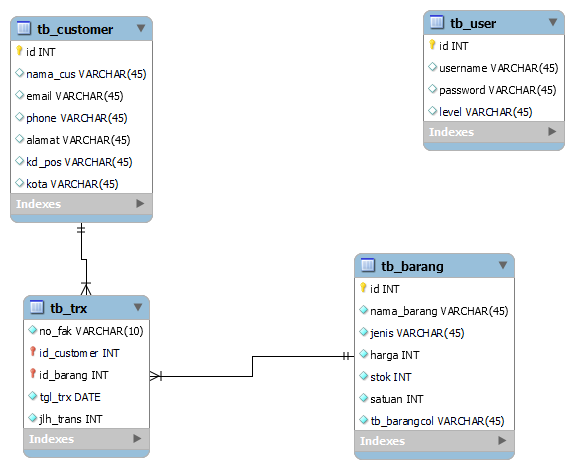
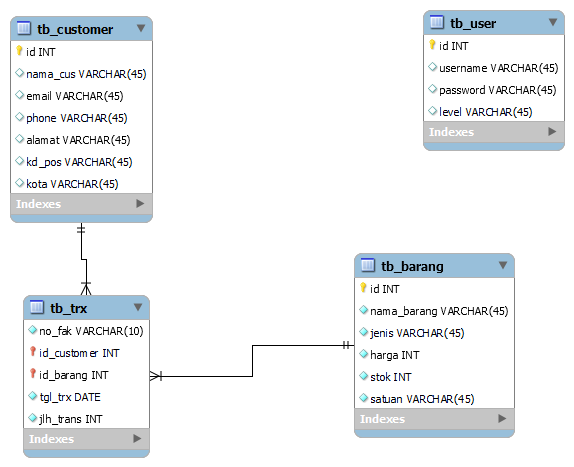
Al Fajar : Migrate Table tb_barang & tb_customer

diff --git a/database/migrations/2024_06_05_090537_create_customer_table.php b/database/migrations/2024_06_05_090537_create_customer_table.php
@@ -1,0 +1,33 @@
+<?php
+
+use Illuminate\Database\Migrations\Migration;
+use Illuminate\Database\Schema\Blueprint;
+use Illuminate\Support\Facades\Schema;
+
+return new class extends Migration
+{
+    /**
+     * Run the migrations.
+     */
+    public function up(): void
+    {
+        Schema::create('customer', function (Blueprint $table) {
+            $table->id();
+            $table->string("nama_cus");
+            $table->string("email");
+            $table->string("phone");
+            $table->string("alamat");
+            $table->string("kode_pos");
+            $table->string("kota");
+            $table->timestamps();
+        });
+    }
+
+    /**
+     * Reverse the migrations.
+     */
+    public function down(): void
+    {
+        Schema::dropIfExists('customer');
+    }
+};

diff --git a/database/migrations/2024_06_05_090343_create_barang_table.php b/database/migrations/2024_06_05_090343_create_barang_table.php
@@ -1,0 +1,32 @@
+<?php
+
+use Illuminate\Database\Migrations\Migration;
+use Illuminate\Database\Schema\Blueprint;
+use Illuminate\Support\Facades\Schema;
+
+return new class extends Migration
+{
+    /**
+     * Run the migrations.
+     */
+    public function up(): void
+    {
+        Schema::create('barang', function (Blueprint $table) {
+            $table->id();
+            $table->string("nama");
+            $table->string("jenis");
+            $table->integer("harga");
+            $table->integer("stok");
+            $table->string("satuang");
+            $table->timestamps();
+        });
+    }
+
+    /**
+     * Reverse the migrations.
+     */
+    public function down(): void
+    {
+        Schema::dropIfExists('barang');
+    }
+};
